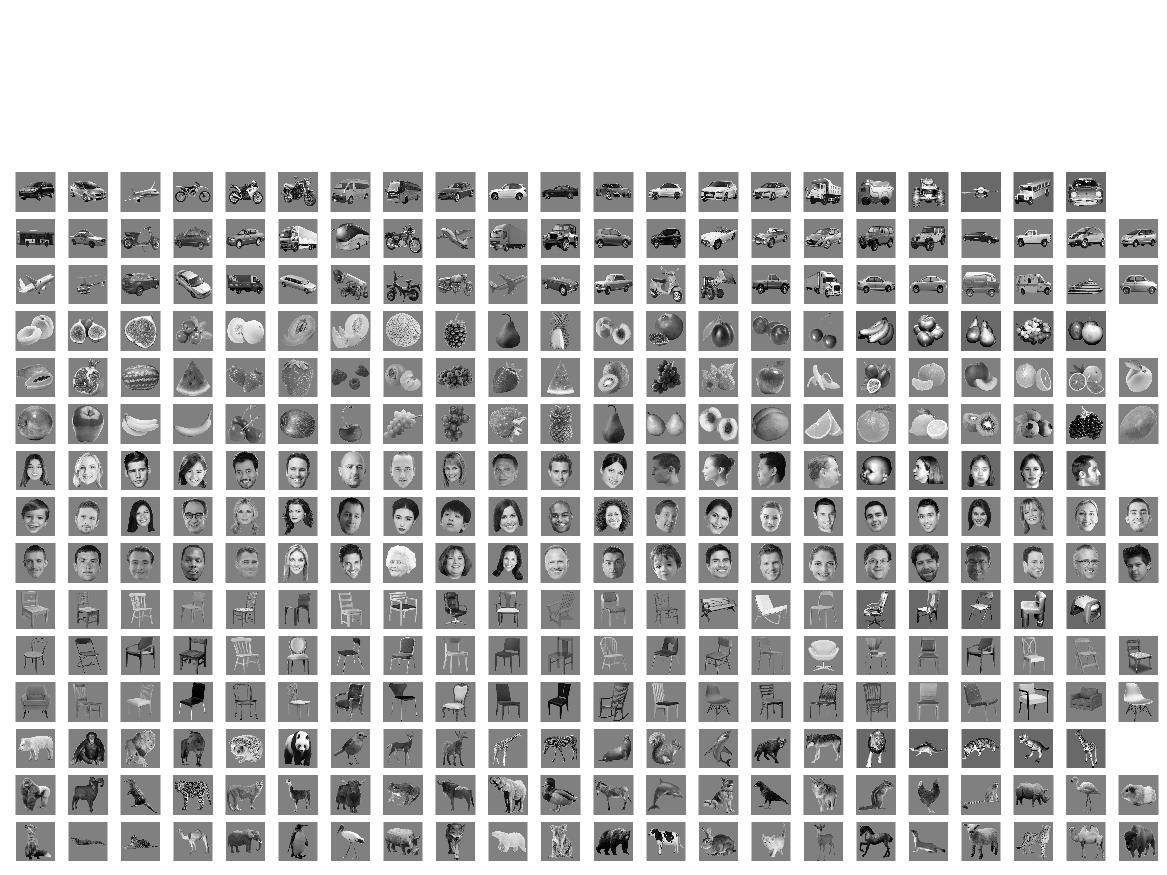
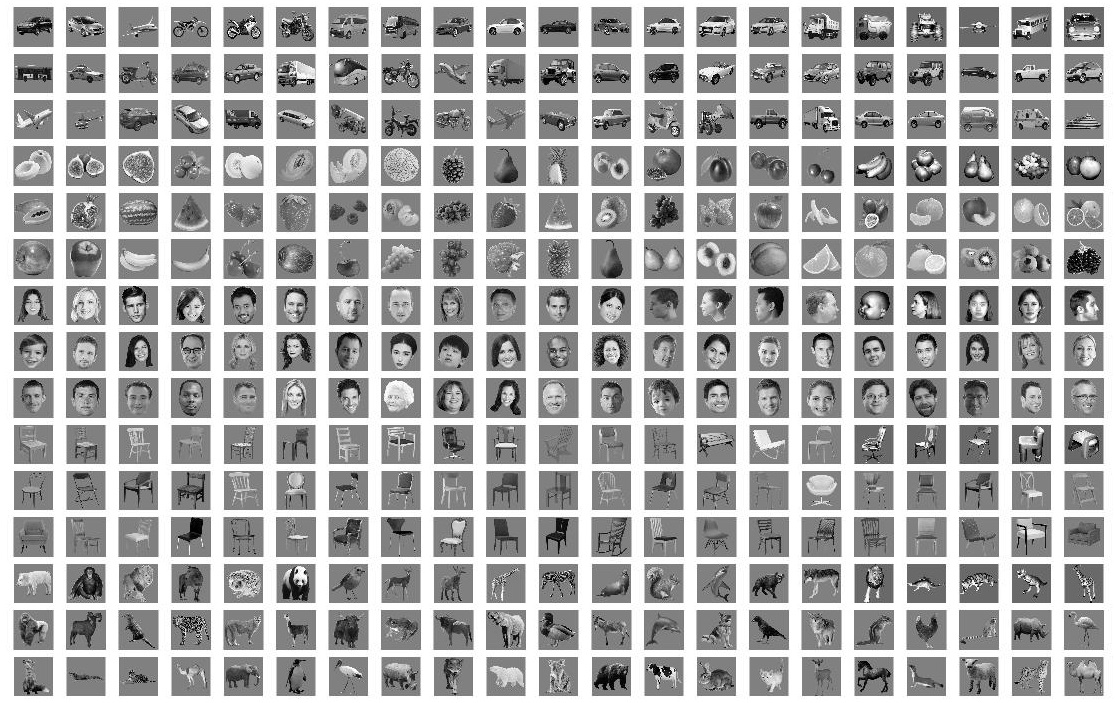
fix sample figure cropping and url

diff --git a/README.md b/README.md
@@ -1,6 +1,6 @@
 # Recurrent computations for visual pattern completion
 
-Hanlin Tang, Martin Schrimpf, William Lotter, Charlotte Moerman, Ana Paredes, Josue Ortega Caro, Walter Hardesty, David Cox, Gabriel Kreiman
+Hanlin Tang*, Martin Schrimpf*, William Lotter*, Charlotte Moerman, Ana Paredes, Josue Ortega Caro, Walter Hardesty, David Cox, Gabriel Kreiman
 ##### Kreiman Lab, http://klab.tch.harvard.edu
 
 ![sample images](data/samples/sample_images.png)
@@ -29,7 +29,7 @@ All encoding models can be found here: https://github.com/kreimanlab/occlusion-m
 
 The Hopfield network is implemented here: https://github.com/kreimanlab/occlusion-models/blob/master/feature_extractors/hopfield/HopFeatures.m
 
-![Recurrent Models][http://klab.tch.harvard.edu/resources/images/Tangetal_RecurrentComputations_Logo.jpg]
+![Recurrent Models](data/samples/model_illustration.jpg)
 
 Models are trained only on whole images and tested on occluded ones, posing a strong test of invariance.
 
